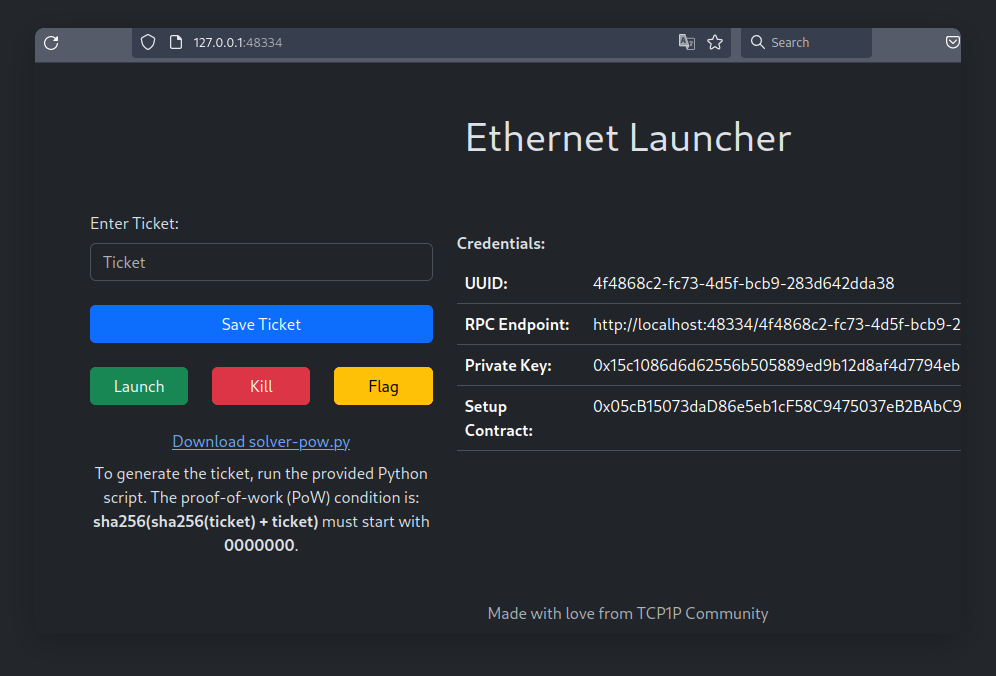
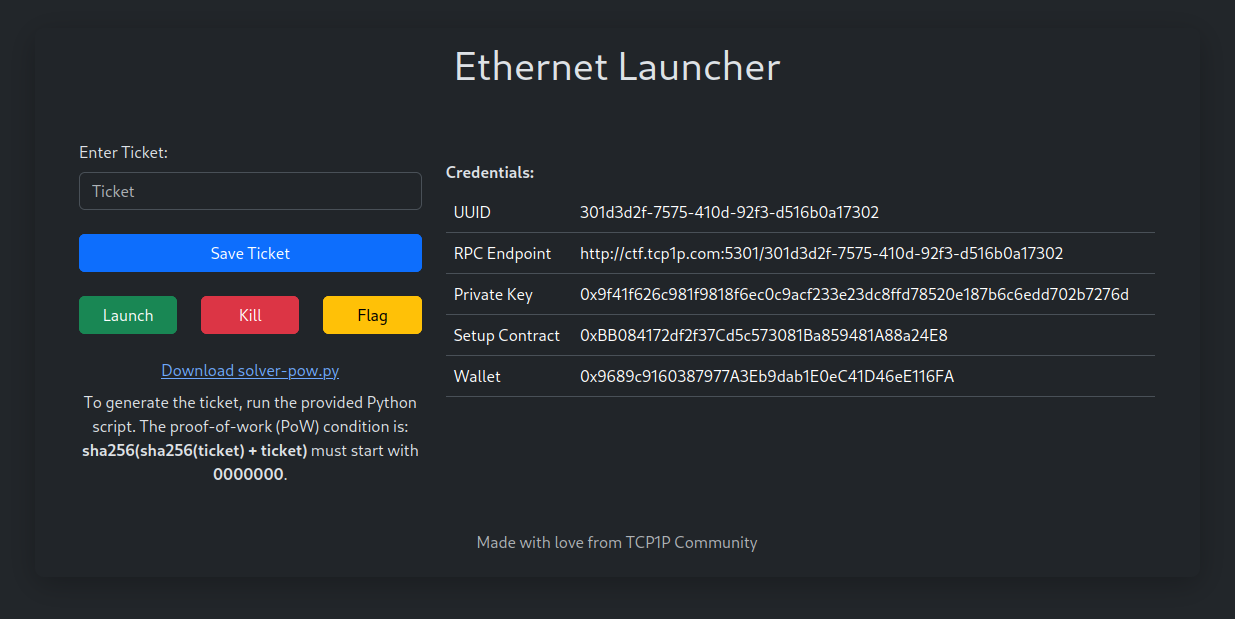
update image

diff --git a/challenge/solve.py b/challenge/solve.py
@@ -11,14 +11,14 @@ https://github.com/foundry-rs/foundry
 
 Credentials:
 UUID: 	38a19e78-394a-4748-8a4b-0d55e1f2e408
-RPC Endpoint: 	http://localhost:8545/38a19e78-394a-4748-8a4b-0d55e1f2e408
+RPC Endpoint: 	http://localhost:48334/38a19e78-394a-4748-8a4b-0d55e1f2e408
 Private Key: 	0x4aa563c1076b3d162f68814291ed83cb4e99765ad301f6bace11346327a7bc9d
 Setup Contract: 	0x168A4D8facdC0613ce9Bf02c4E5321F3b14CdE43
 """
 
-RPC_URL = "http://ctf.tcp1p.com:5301/71345b4e-b5da-4ef9-8060-bad140757253"
[1 lines of base64/hex data omitted]
-SETUP_CONTRACT_ADDR = "0x51418b4C7D30326d591F0Ffe8630072D076bc985"
+RPC_URL = "http://localhost:48334/38a19e78-394a-4748-8a4b-0d55e1f2e408"
[1 lines of base64/hex data omitted]
+SETUP_CONTRACT_ADDR = "0x168A4D8facdC0613ce9Bf02c4E5321F3b14CdE43"
 
 def get_abi(filename):
     # get abi "solc <filename> --abi"
